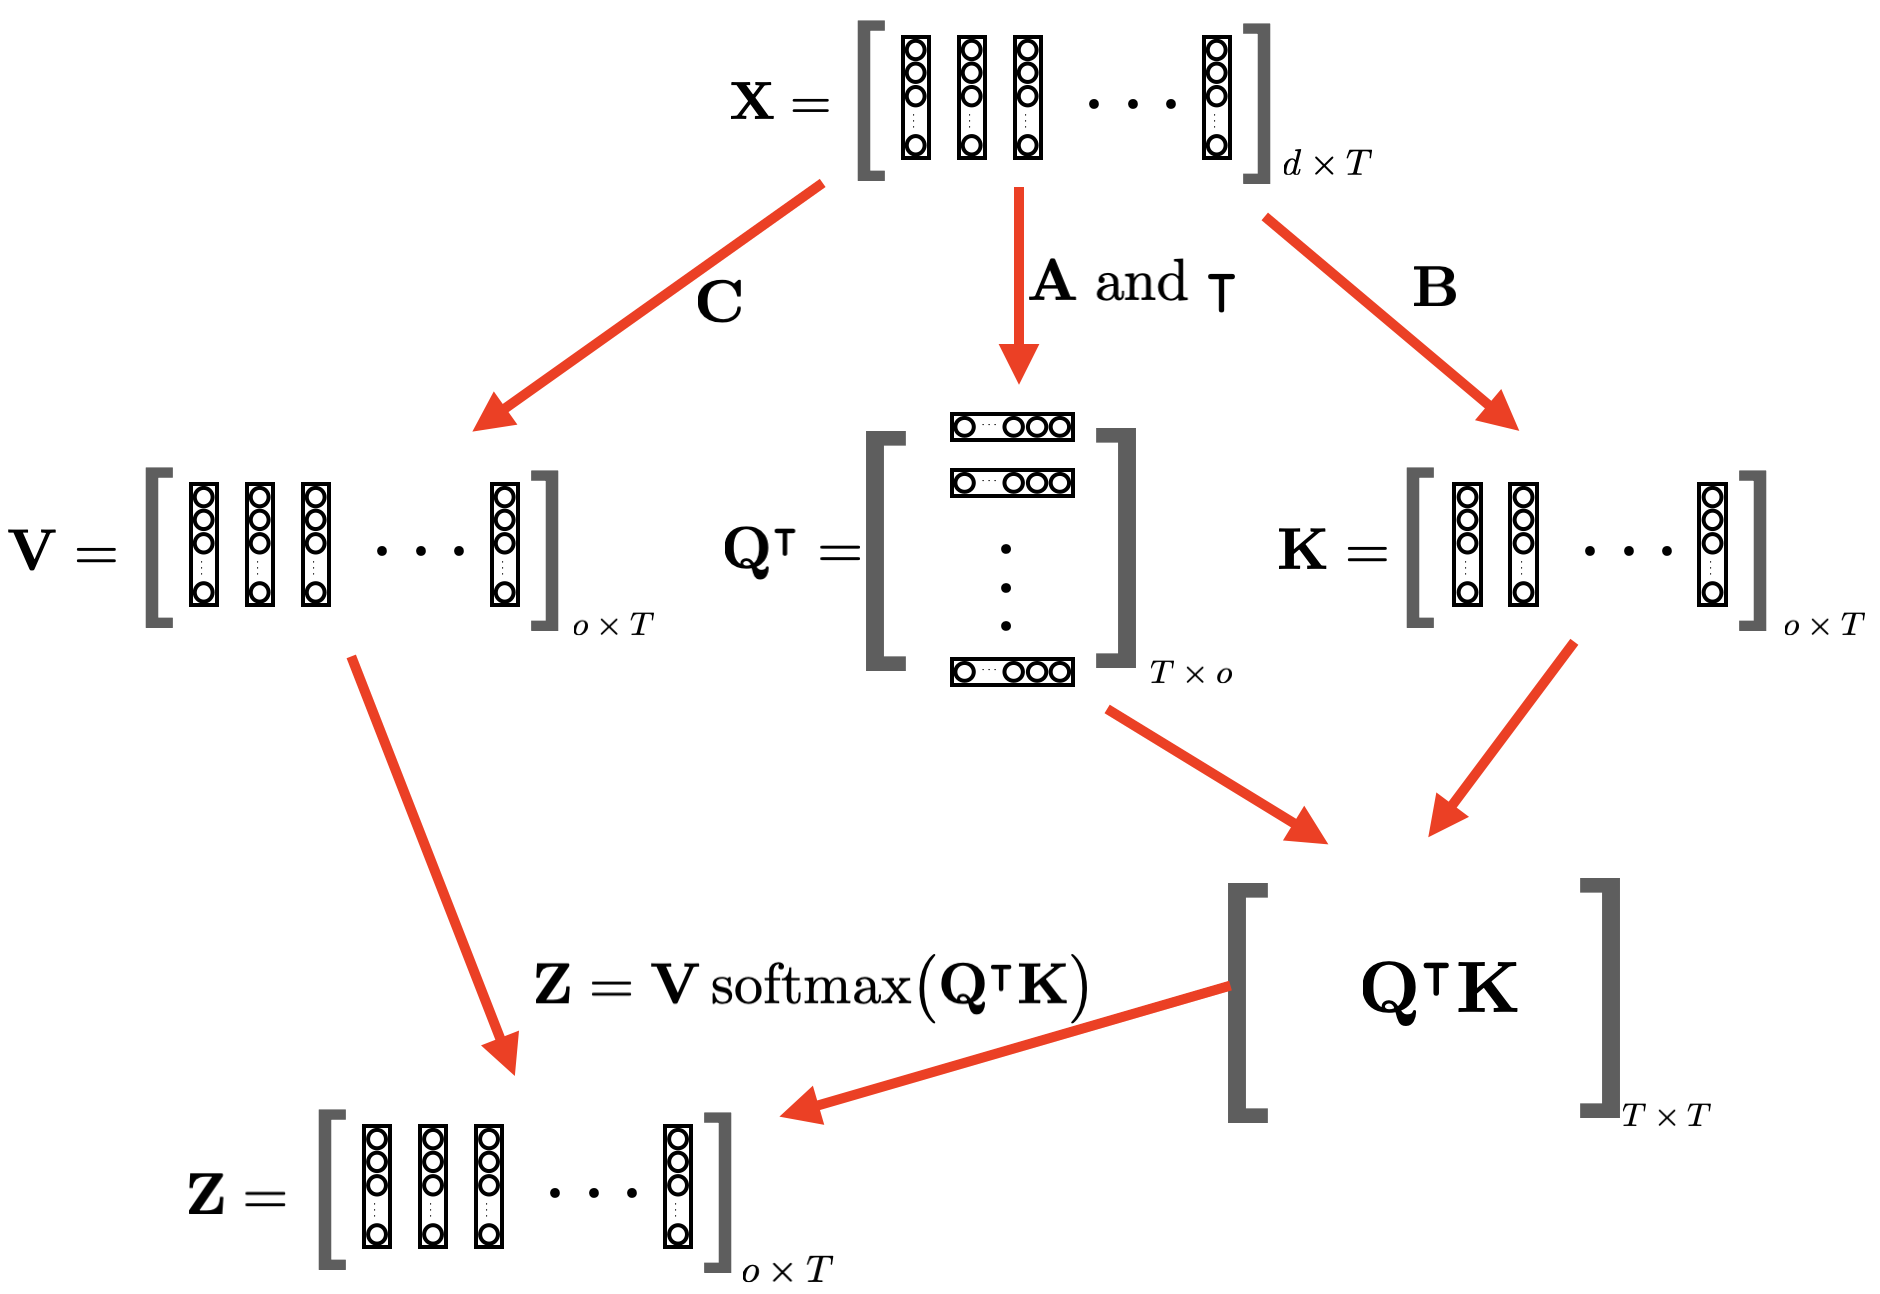
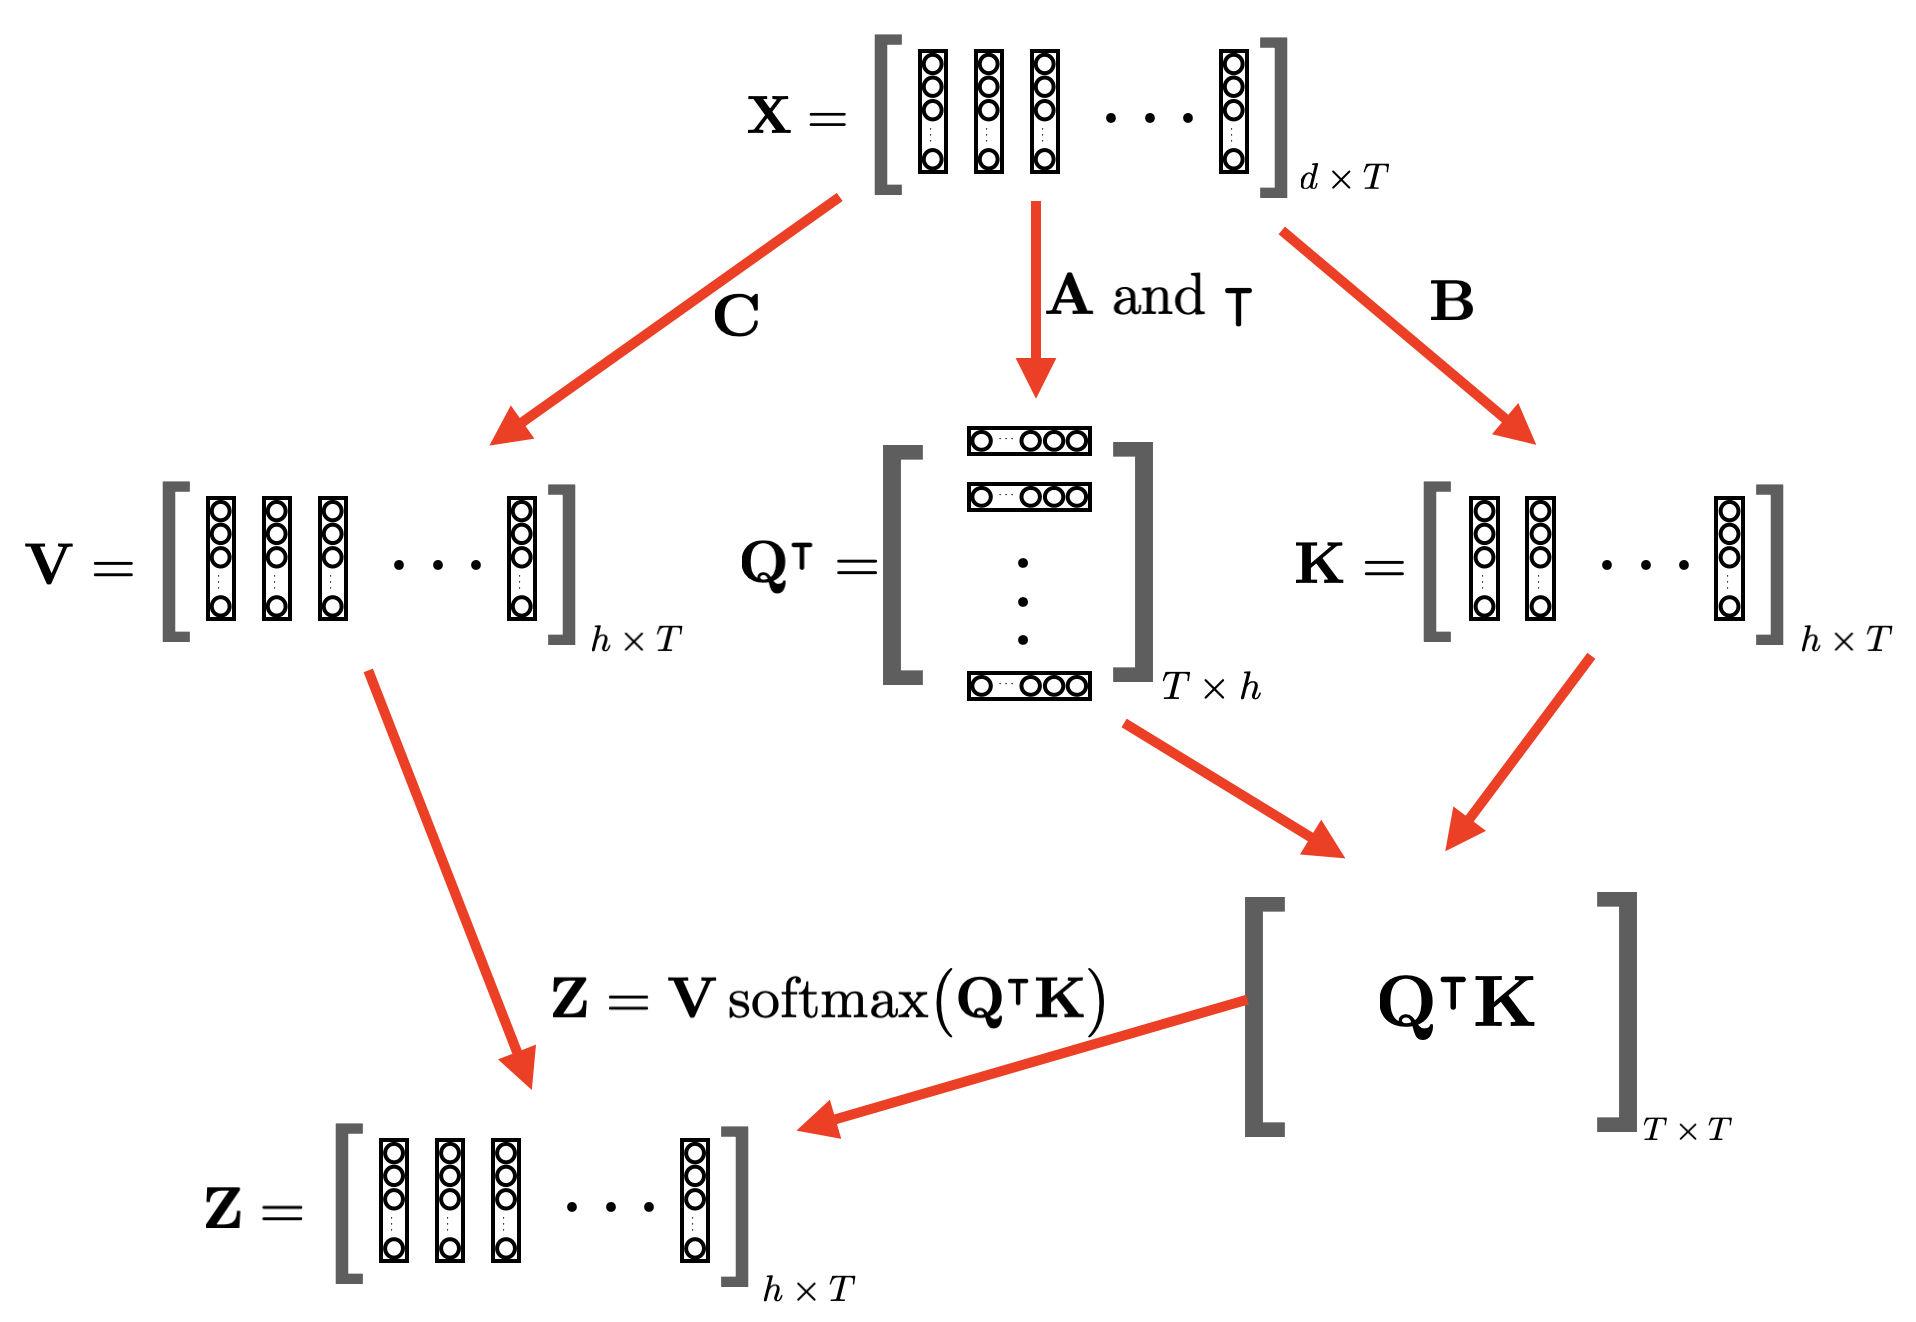
fixed some notation inconsistencies

diff --git a/_posts/2023-03-05-Transformer-GPT.md b/_posts/2023-03-05-Transformer-GPT.md
@@ -3,7 +3,7 @@ layout: post
 title: "Understanding Transformers and GPT: An In-depth Overview"
 date: 2023-03-05 
 ---
-*In this post, we delve into the technical details of the widely used transformer architecture by deriving all formulas involved in its forward and backward passes step by step. By doing so, we can implement these passes ourselves and often achieve more efficient performance than using autograd methods. Additionally, we introduce the construction of the popular GPT-3 model using the transformer architecture.*
+*In this post, we delve into the technical details of the widely used transformer architecture by deriving all formulas involved in its forward and backward passes step by step. By doing so, we can implement these passes ourselves and often achieve more efficient performance than using autograd methods. Additionally, we introduce the technical details on the construction of the popular GPT-3 model using the transformer architecture.*
 <br><br>
 
 Transformers $[1]$ are a type of neural network architecture designed to transform a sequence of $T$ input vectors, 
@@ -13,11 +13,11 @@ $$
  \;\;\;\;\;(\mathbf{x}_i \in \mathbb{R}^d, \; \forall i=1,2,\cdots,T),
  $$ 
 
-into an equal-length sequence of context-dependent output vectors:
+into an equal-length sequence of the so-called context-dependent output vectors:
 
 $$
  \{ \mathbf{y}_1, \mathbf{y}_2, \cdots, \mathbf{y}_T \}
- \;\;\;\;\;(\mathbf{y}_i \in \mathbb{R}^o, \; \forall i=1,2,\cdots,T).
+ \;\;\;\;\;(\mathbf{y}_i \in \mathbb{R}^h, \; \forall i=1,2,\cdots,T).
 $$ 
 
 The output sequence in a transformer model is referred to as *context-dependent* because each output vector is influenced not only by the corresponding input vector but also by the context of the entire input sequence. Specifically, each output vector $\mathbf{y}_i$ depends on all input vectors in the sequence, not just $\mathbf{x}_i$ at the same position. As a result, each output vector can be viewed as a representation of not only the input vector at the same location but also its contextual information in the entire sequence.
@@ -26,14 +26,14 @@ More importantly, transformers utilize a flexible attention mechanism that enabl
 
 ### **Transformers: Forward Pass**
 
-Let's pack all input vectors as a $d \times T$ matrix, and all output vectors as an $o \times T$ matrix, as follows:
+Let's pack all input vectors as a $d \times T$ matrix, and all output vectors as an $l  \times T$ matrix, as follows:
 
 $$
 \mathbf{X} = \bigg[ \mathbf{x}_1 \; \mathbf{x}_2 \; \cdots \; \mathbf{x}_T  \bigg]_{d \times T}
 $$
 
 $$
-\mathbf{Y} = \bigg[ \mathbf{y}_1 \; \mathbf{y}_2 \; \cdots \; \mathbf{y}_T  \bigg]_{o \times T}
+\mathbf{Y} = \bigg[ \mathbf{y}_1 \; \mathbf{y}_2 \; \cdots \; \mathbf{y}_T  \bigg]_{h \times T}
 $$
 
 In this way, a transformer can be viewed as a function $\cal{T}$ that maps from $\mathbf{X}$ to $\mathbf{Y}$:
@@ -44,7 +44,7 @@ $$
 
 In the following, we will investigate all steps in the above mapping in a transformer. 
 
-- **Forward step 1:** we first introduce three parameter matrices $\mathbf{A}, \mathbf{B}, \mathbf{C} \in \mathbb{R}^{h \times d}$, which transform each input vector $\mathbf{x}_i$ to generate the so-called *query* vector $\mathbf{q}_i$, *key* vector $\mathbf{k}_i$ and *value* vector $\mathbf{v}_i$:
+- **Forward step 1:** we first introduce three parameter matrices $\mathbf{A}, \mathbf{B}, \mathbf{C} \in \mathbb{R}^{h  \times d}$, which transform each input vector $\mathbf{x}_i$ to generate the so-called *query* vector $\mathbf{q}_i$, *key* vector $\mathbf{k}_i$, and *value* vector $\mathbf{v}_i$:
 
 $$
 \mathbf{q}_i = \mathbf{A} \mathbf{x}_i, \;
@@ -54,7 +54,7 @@ $$
 
 When the *query*, *key*, and *value* vectors are all derived from a common input source, we refer to the transformer's mechanism as performing *self-attention*. Conversely, if these vectors are derived from different sources, the mechanism is called *cross-attention*.
 
-The above operations can be combined into three matrix multiplications:
+The above operations can be combined as three matrix multiplications in the following:
 
 $$
 \mathbf{Q} = \mathbf{A} \mathbf{X}, \;\;
@@ -67,7 +67,7 @@ where $\mathbf{Q}, \mathbf{K}, \mathbf{V} \in \mathbb{R}^{h \times T}$ are const
 - **Forward step 2:** use the above *query* and *key* vectors to compute all pair-wise attention between any two input vectors $\mathbf{x}_i$ and $\mathbf{x}_t$ ($\forall i,t =1,2, \cdots, T$) as follows:
 
 $$ 
-c_{it} = \frac{\mathbf{q}_i^\intercal \mathbf{k}_t}{\sqrt{h}} \;\;\;\;\;\;\;\;
+c_{it} = \frac{\mathbf{q}_i^\intercal \mathbf{k}_t}{\sqrt{o}} \;\;\;\;\;\;\;\;
 (\forall i,t =1,2, \cdots, T)
 $$
 
@@ -149,7 +149,7 @@ Arrange them column by column as a matrix:
 
 $$
 \mathbf{E} = \frac{\partial F}{\partial \mathbf{Z}}
-= \left[ \;\; \frac{\partial F}{ \partial \mathbf{z}_t} \;\; \right]_{o \times T}
+= \left[ \;\; \frac{\partial F}{ \partial \mathbf{z}_t} \;\; \right]_{h \times T}
 $$
 
 Let's break down all attention operations in a transformer in Figure 1 step by step backwards from the output towards input as follows:
@@ -173,8 +173,8 @@ Align all of these ($T^2$ terms in total) as a $T \times T$ matrix:
 
 $$
 \left[  \;\; \frac{\partial F}{\partial a_i(t)} \;\; \right]_{T \times T } = \bigg[ \;\;
-\mathbf{V}^\intercal \;\; \bigg]_{T\times o }
-\bigg[ \;\; \mathbf{E} \;\; \bigg]_{o \times T }
+\mathbf{V}^\intercal \;\; \bigg]_{T\times h }
+\bigg[ \;\; \mathbf{E} \;\; \bigg]_{h \times T }
 $$
 
 - **Backward step 2:** we normalize as $a_i(t) = \frac{e^{c_i(t)}}{\sum_{j=1}^T e^{c_j(t)}} \;\;\;\;\;\; (\forall i,t = 1,2, \cdots, T)$. 
@@ -235,9 +235,9 @@ $$
 Align these vectors column by column as the following matrix format:
 
 $$
-\bigg[ \;\; \frac{\partial F}{ \partial \mathbf{q}_i} \;\; \bigg]_{l \times T}
-= \frac{1}{\sqrt{h}} \bigg[ \;\; \mathbf{K} \;\; \bigg]_{l  \times T}
-\left[  \;\; \frac{\partial F}{\partial c_i(t)} \;\; \right]_{T \times T }
+\bigg[ \;\; \frac{\partial F}{ \partial \mathbf{q}_i} \;\; \bigg]_{h \times T}
+= \frac{1}{\sqrt{h}} \bigg[ \;\; \mathbf{K} \;\; \bigg]_{h  \times T}
+\left[  \;\; \frac{\partial F}{\partial c_i(t)} \;\; \right]^\intercal_{T \times T }
 $$
 
 - **Backward step 4:** because of $\mathbf{q}_i = \mathbf{\mathbf{A}} \mathbf{x}_i$, we have 
@@ -246,22 +246,22 @@ $$
 \frac{\partial F}{\partial \mathbf{A}} = \sum_{i=1}^T
 \frac{\partial F}{\partial \mathbf{q}_i} \frac{\partial \mathbf{q}_i}{\partial \mathbf{A}}
 = \frac{1}{\sqrt{h}}\sum_{i=1}^T \frac{\partial F}{\partial \mathbf{q}_i} \mathbf{x}_i^\intercal 
-= \frac{1}{\sqrt{h}}\bigg[ \;\; \frac{\partial F}{ \partial \mathbf{q}_i} \;\; \bigg]_{l \times T} 
+= \frac{1}{\sqrt{h}}\bigg[ \;\; \frac{\partial F}{ \partial \mathbf{q}_i} \;\; \bigg]_{h \times T} 
 \bigg[ \;\; \mathbf{X}^\intercal \;\; \bigg]_{T\times d}
 $$
 
 Putting all the above steps together, we have
 
 $$
-\frac{\partial F}{\partial \mathbf{A}} =  \frac{1}{\sqrt{h}}\bigg[ \;\; \mathbf{K} \;\; \bigg]_{l  \times T}
+\frac{\partial F}{\partial \mathbf{A}} =  \frac{1}{\sqrt{h}}\bigg[ \;\; \mathbf{K} \;\; \bigg]_{h  \times T}
 \Bigg(
 \mathcal{A} \otimes
 \Bigg(
 \bigg[ \;\;
-\mathbf{V}^\intercal \;\; \bigg]_{T\times o }
-\bigg[ \;\; \mathbf{E} \;\; \bigg]_{o \times T }
+\mathbf{V}^\intercal \;\; \bigg]_{T\times h }
+\bigg[ \;\; \mathbf{E} \;\; \bigg]_{h \times T }
 \Bigg)
-\Bigg)
+\Bigg)^\intercal 
 \bigg[ \;\; \mathbf{X}^\intercal \;\; \bigg]_{T\times d}
 $$
 
@@ -271,7 +271,7 @@ $$
 \big( 
 \mathbf{V}^\intercal \mathbf{E}
 \big)
-\bigg) \mathbf{X}^\intercal 
+\bigg)^\intercal  \mathbf{X}^\intercal 
 $$
 
 Similarly, we can derive 
@@ -301,12 +301,12 @@ $$
 Arrange them column by column into a matrix
 
 $$
-\bigg[ \;\; \frac{\partial F}{ \partial \mathbf{v}_i} \;\;\bigg]_{o \times T}
-= \bigg[ \;\; \frac{\partial F}{ \partial \mathbf{z}_i} \;\;\bigg]_{o \times T}
+\bigg[ \;\; \frac{\partial F}{ \partial \mathbf{v}_i} \;\;\bigg]_{h \times T}
+= \bigg[ \;\; \frac{\partial F}{ \partial \mathbf{z}_i} \;\;\bigg]_{h \times T}
 \bigg[ \;\;
 a_i(t)
 \;\; \bigg]^\intercal_{T \times T}
-= \bigg[ \;\; \frac{\partial F}{ \partial \mathbf{z}_i} \;\;\bigg]_{o \times T} 
+= \bigg[ \;\; \frac{\partial F}{ \partial \mathbf{z}_i} \;\;\bigg]_{h \times T} 
 \mathcal{A}^\intercal
 $$
 
@@ -316,7 +316,7 @@ $$
 \frac{\partial F}{\partial \mathbf{C}} = \sum_{i=1}^T
 \frac{\partial F}{\partial \mathbf{v}_i} \frac{\partial \mathbf{v}_i}{\partial \mathbf{C}}
 = \sum_{i=1}^T \frac{\partial F}{\partial \mathbf{v}_i} \mathbf{x}_i^\intercal 
-= \bigg[ \;\; \frac{\partial F}{ \partial \mathbf{v}_i} \;\; \bigg]_{l \times T} 
+= \bigg[ \;\; \frac{\partial F}{ \partial \mathbf{v}_i} \;\; \bigg]_{h \times T} 
 \bigg[ \;\; \mathbf{X}^\intercal \;\; \bigg]_{T\times d}
 $$
 
@@ -336,25 +336,31 @@ $$
 $$
 
 $$
-= \bigg[ \;\; \mathbf{A}^\intercal \;\; \bigg]_{d\times l}
-\bigg[ \;\; \frac{\partial F}{ \partial \mathbf{q}_i} \;\; \bigg]_{l \times T} 
-+ \bigg[ \;\; \mathbf{B}^\intercal \;\; \bigg]_{d\times l}
-\bigg[ \;\; \frac{\partial F}{ \partial \mathbf{k}_i} \;\; \bigg]_{l \times T} 
-+ \bigg[ \;\; \mathbf{C}^\intercal \;\; \bigg]_{d\times l}\bigg[ \;\; \frac{\partial F}{ \partial \mathbf{v}_i} \;\; \bigg]_{l \times T}
+= \bigg[ \;\; \mathbf{A}^\intercal \;\; \bigg]_{d\times h}
+\bigg[ \;\; \frac{\partial F}{ \partial \mathbf{q}_i} \;\; \bigg]_{h \times T} 
++ \bigg[ \;\; \mathbf{B}^\intercal \;\; \bigg]_{d\times h}
+\bigg[ \;\; \frac{\partial F}{ \partial \mathbf{k}_i} \;\; \bigg]_{h \times T} 
++ \bigg[ \;\; \mathbf{C}^\intercal \;\; \bigg]_{d\times l}\bigg[ \;\; \frac{\partial F}{ \partial \mathbf{v}_i} \;\; \bigg]_{h \times T}
 $$
 
 $$
-= \frac{1}{\sqrt{h}}  \bigg( \mathbf{A}^\intercal \mathbf{K} + \mathbf{B}^\intercal \mathbf{Q} \bigg)
-\bigg( \mathcal{A} \otimes
+= \frac{1}{\sqrt{h}}  \bigg( \mathbf{A}^\intercal \mathbf{K} 
+\Big( \mathcal{A} \otimes
 \big( 
 \mathbf{V}^\intercal \mathbf{E}
-\big) \bigg) 
+\big) \Big)^\intercal
++ \mathbf{B}^\intercal \mathbf{Q} 
+\Big( \mathcal{A} \otimes
+\big( 
+\mathbf{V}^\intercal \mathbf{E}
+\big) \Big) 
+\bigg)
 + \mathbf{C}^\intercal \mathbf{E} \mathcal{A}^\intercal
 $$
 
 ### **GPT-3**
 
-The authors of $[4]$ propose a deep multi-head transformer structure named *GPT-3* for processing text data. In GPT-3, the values of $d$, $o$, and $T$ are set to $d=12288$, $o=128$, and $T=2048$, respectively, while the vocabulary is composed of $50257$ distinct tokens.
+The authors of $[4]$ propose a deep multi-head transformer structure named *GPT-3* for processing text data. In GPT-3, the values of $d$, $h$, and $T$ are set to $d=12288$, $h=128$, and $T=2048$, respectively, while the vocabulary is composed of $50257$ distinct tokens.
 
 To begin, *GPT-3* employs a tokenizer to split any text sequence into a sequence of tokens (each token is a common word fragment). These tokens are then transformed into vectors of $d=12288$ dimensions using a word embedding matrix $\mathbf{W}_0 \in \mathbb{R}^{12288 \times 50257}$. Subsequently, the input sequence $\mathbf{X} \in \mathbb{R}^{12288 \times 2048}$ is transformed into $\mathbf{Y} \in \mathbb{R}^{12288 \times 2048}$ using 96 layers of multi-head transformer blocks. Each block is defined as follows:
 
